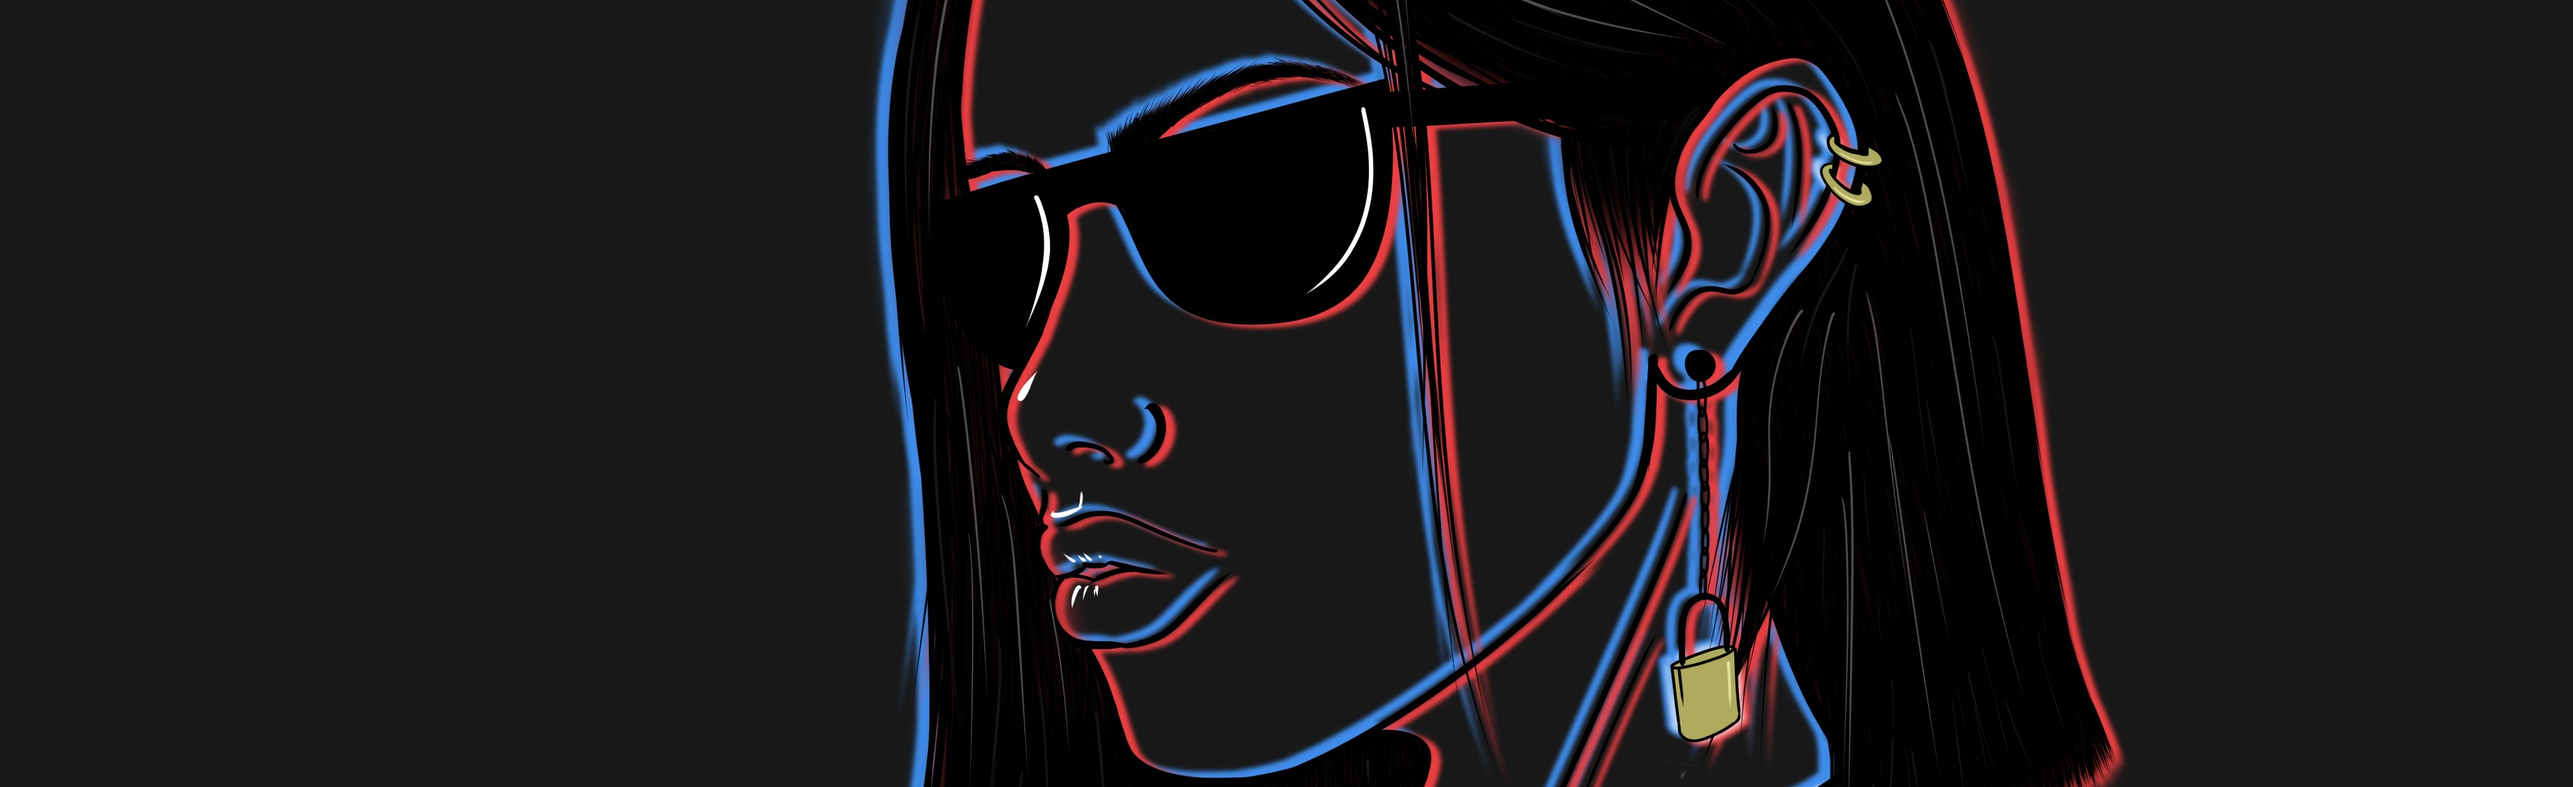
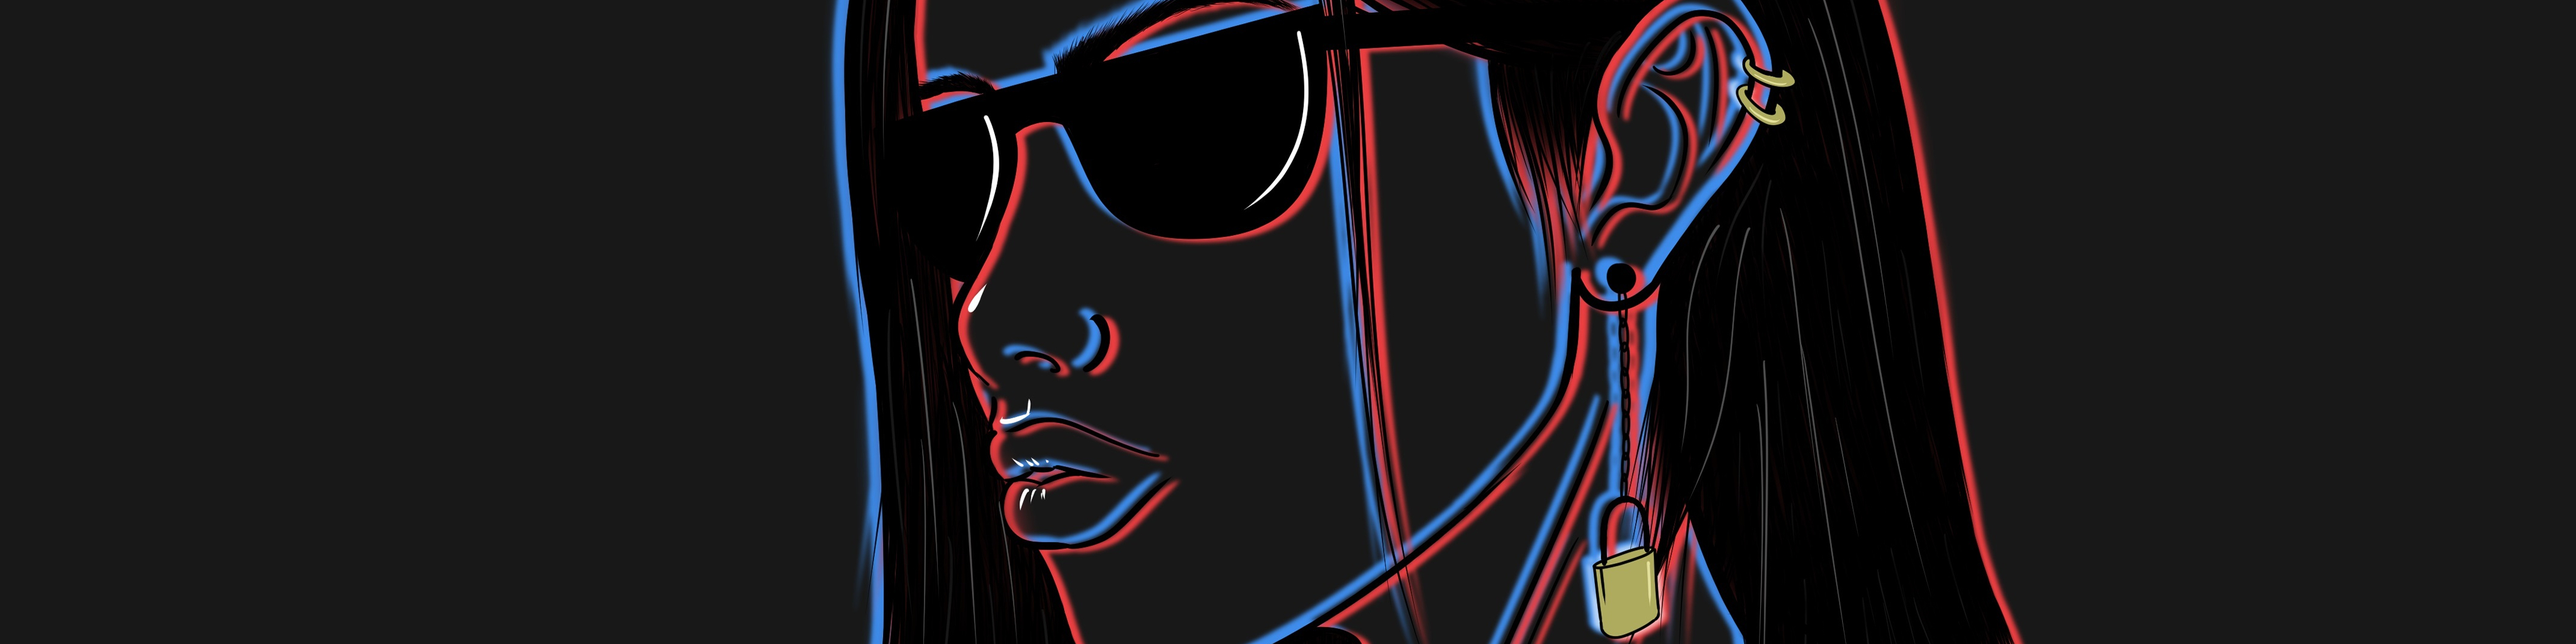
123 test

Changed region(s): [[0.3104, 0.0, 0.8069, 1.0], [0.7759, 0.8125, 0.838, 1.0]]

diff --git a/index.html b/index.html
@@ -13,7 +13,14 @@
 
 <body>
 
-    <div class="banner"></div>
+    <div class="banner">
+        <div class="banner2">
+            <div class="banner3">
+                <div class="banner4">
+                </div>
+            </div>
+        </div>
+    </div>
 
     <header class="header" id="myHeader">
 
@@ -42,40 +49,99 @@
         <h3>On Scroll Sticky Header</h3>
         <p>The header will stick to the top when you reach its scroll position.</p>
         <p>Scroll back up to remove the sticky effect.</p>
-        <p>Some text to enable scrolling.. Lorem ipsum dolor sit amet, illum definitiones no quo, maluisset concludaturque et eum, altera fabulas ut quo. Atqui causae gloriatur ius te, id agam omnis evertitur eum. Affert laboramus repudiandae nec et. Inciderint efficiantur his ad. Eum no molestiae voluptatibus.</p>
-        <p>Some text to enable scrolling.. Lorem ipsum dolor sit amet, illum definitiones no quo, maluisset concludaturque et eum, altera fabulas ut quo. Atqui causae gloriatur ius te, id agam omnis evertitur eum. Affert laboramus repudiandae nec et. Inciderint efficiantur his ad. Eum no molestiae voluptatibus.</p>
-        <p>Some text to enable scrolling.. Lorem ipsum dolor sit amet, illum definitiones no quo, maluisset concludaturque et eum, altera fabulas ut quo. Atqui causae gloriatur ius te, id agam omnis evertitur eum. Affert laboramus repudiandae nec et. Inciderint efficiantur his ad. Eum no molestiae voluptatibus.</p>
-        <p>Some text to enable scrolling.. Lorem ipsum dolor sit amet, illum definitiones no quo, maluisset concludaturque et eum, altera fabulas ut quo. Atqui causae gloriatur ius te, id agam omnis evertitur eum. Affert laboramus repudiandae nec et. Inciderint efficiantur his ad. Eum no molestiae voluptatibus.</p><p>Some text to enable scrolling.. Lorem ipsum dolor sit amet, illum definitiones no quo, maluisset concludaturque et eum, altera fabulas ut quo. Atqui causae gloriatur ius te, id agam omnis evertitur eum. Affert laboramus repudiandae nec et. Inciderint efficiantur his ad. Eum no molestiae voluptatibus.</p>  <p>Some text to enable scrolling.. Lorem ipsum dolor sit amet, illum definitiones no quo, maluisset concludaturque et eum, altera fabulas ut quo. Atqui causae gloriatur ius te, id agam omnis evertitur eum. Affert laboramus repudiandae nec et. Inciderint efficiantur his ad. Eum no molestiae voluptatibus.</p><p>Some text to enable scrolling.. Lorem ipsum dolor sit amet, illum definitiones no quo, maluisset concludaturque et eum, altera fabulas ut quo. Atqui causae gloriatur ius te, id agam omnis evertitur eum. Affert laboramus repudiandae nec et. Inciderint efficiantur his ad. Eum no molestiae voluptatibus.</p>  <p>Some text to enable scrolling.. Lorem ipsum dolor sit amet, illum definitiones no quo, maluisset concludaturque et eum, altera fabulas ut quo. Atqui causae gloriatur ius te, id agam omnis evertitur eum. Affert laboramus repudiandae nec et. Inciderint efficiantur his ad. Eum no molestiae voluptatibus.</p><p>Some text to enable scrolling.. Lorem ipsum dolor sit amet, illum definitiones no quo, maluisset concludaturque et eum, altera fabulas ut quo. Atqui causae gloriatur ius te, id agam omnis evertitur eum. Affert laboramus repudiandae nec et. Inciderint efficiantur his ad. Eum no molestiae voluptatibus.</p>  <p>Some text to enable scrolling.. Lorem ipsum dolor sit amet, illum definitiones no quo, maluisset concludaturque et eum, altera fabulas ut quo. Atqui causae gloriatur ius te, id agam omnis evertitur eum. Affert laboramus repudiandae nec et. Inciderint efficiantur his ad. Eum no molestiae voluptatibus.</p><p>Some text to enable scrolling.. Lorem ipsum dolor sit amet, illum definitiones no quo, maluisset concludaturque et eum, altera fabulas ut quo. Atqui causae gloriatur ius te, id agam omnis evertitur eum. Affert laboramus repudiandae nec et. Inciderint efficiantur his ad. Eum no molestiae voluptatibus.</p>
-        <p>Some text to enable scrolling.. Lorem ipsum dolor sit amet, illum definitiones no quo, maluisset concludaturque et eum, altera fabulas ut quo. Atqui causae gloriatur ius te, id agam omnis evertitur eum. Affert laboramus repudiandae nec et. Inciderint efficiantur his ad. Eum no molestiae voluptatibus.</p>
-        <p>Some text to enable scrolling.. Lorem ipsum dolor sit amet, illum definitiones no quo, maluisset concludaturque et eum, altera fabulas ut quo. Atqui causae gloriatur ius te, id agam omnis evertitur eum. Affert laboramus repudiandae nec et. Inciderint efficiantur his ad. Eum no molestiae voluptatibus.</p>
-        <p>Some text to enable scrolling.. Lorem ipsum dolor sit amet, illum definitiones no quo, maluisset concludaturque et eum, altera fabulas ut quo. Atqui causae gloriatur ius te, id agam omnis evertitur eum. Affert laboramus repudiandae nec et. Inciderint efficiantur his ad. Eum no molestiae voluptatibus.</p>
-        <p>Some text to enable scrolling.. Lorem ipsum dolor sit amet, illum definitiones no quo, maluisset concludaturque et eum, altera fabulas ut quo. Atqui causae gloriatur ius te, id agam omnis evertitur eum. Affert laboramus repudiandae nec et. Inciderint efficiantur his ad. Eum no molestiae voluptatibus.</p>
+        <p>Some text to enable scrolling.. Lorem ipsum dolor sit amet, illum definitiones no quo, maluisset
+            concludaturque et eum, altera fabulas ut quo. Atqui causae gloriatur ius te, id agam omnis evertitur eum.
+            Affert laboramus repudiandae nec et. Inciderint efficiantur his ad. Eum no molestiae voluptatibus.</p>
+        <p>Some text to enable scrolling.. Lorem ipsum dolor sit amet, illum definitiones no quo, maluisset
+            concludaturque et eum, altera fabulas ut quo. Atqui causae gloriatur ius te, id agam omnis evertitur eum.
+            Affert laboramus repudiandae nec et. Inciderint efficiantur his ad. Eum no molestiae voluptatibus.</p>
+        <p>Some text to enable scrolling.. Lorem ipsum dolor sit amet, illum definitiones no quo, maluisset
+            concludaturque et eum, altera fabulas ut quo. Atqui causae gloriatur ius te, id agam omnis evertitur eum.
+            Affert laboramus repudiandae nec et. Inciderint efficiantur his ad. Eum no molestiae voluptatibus.</p>
+        <p>Some text to enable scrolling.. Lorem ipsum dolor sit amet, illum definitiones no quo, maluisset
+            concludaturque et eum, altera fabulas ut quo. Atqui causae gloriatur ius te, id agam omnis evertitur eum.
+            Affert laboramus repudiandae nec et. Inciderint efficiantur his ad. Eum no molestiae voluptatibus.</p>
+        <p>Some text to enable scrolling.. Lorem ipsum dolor sit amet, illum definitiones no quo, maluisset
+            concludaturque et eum, altera fabulas ut quo. Atqui causae gloriatur ius te, id agam omnis evertitur eum.
+            Affert laboramus repudiandae nec et. Inciderint efficiantur his ad. Eum no molestiae voluptatibus.</p>
+        <p>Some text to enable scrolling.. Lorem ipsum dolor sit amet, illum definitiones no quo, maluisset
+            concludaturque et eum, altera fabulas ut quo. Atqui causae gloriatur ius te, id agam omnis evertitur eum.
+            Affert laboramus repudiandae nec et. Inciderint efficiantur his ad. Eum no molestiae voluptatibus.</p>
+        <p>Some text to enable scrolling.. Lorem ipsum dolor sit amet, illum definitiones no quo, maluisset
+            concludaturque et eum, altera fabulas ut quo. Atqui causae gloriatur ius te, id agam omnis evertitur eum.
+            Affert laboramus repudiandae nec et. Inciderint efficiantur his ad. Eum no molestiae voluptatibus.</p>
+        <p>Some text to enable scrolling.. Lorem ipsum dolor sit amet, illum definitiones no quo, maluisset
+            concludaturque et eum, altera fabulas ut quo. Atqui causae gloriatur ius te, id agam omnis evertitur eum.
+            Affert laboramus repudiandae nec et. Inciderint efficiantur his ad. Eum no molestiae voluptatibus.</p>
+        <p>Some text to enable scrolling.. Lorem ipsum dolor sit amet, illum definitiones no quo, maluisset
+            concludaturque et eum, altera fabulas ut quo. Atqui causae gloriatur ius te, id agam omnis evertitur eum.
+            Affert laboramus repudiandae nec et. Inciderint efficiantur his ad. Eum no molestiae voluptatibus.</p>
+        <p>Some text to enable scrolling.. Lorem ipsum dolor sit amet, illum definitiones no quo, maluisset
+            concludaturque et eum, altera fabulas ut quo. Atqui causae gloriatur ius te, id agam omnis evertitur eum.
+            Affert laboramus repudiandae nec et. Inciderint efficiantur his ad. Eum no molestiae voluptatibus.</p>
+        <p>Some text to enable scrolling.. Lorem ipsum dolor sit amet, illum definitiones no quo, maluisset
+            concludaturque et eum, altera fabulas ut quo. Atqui causae gloriatur ius te, id agam omnis evertitur eum.
+            Affert laboramus repudiandae nec et. Inciderint efficiantur his ad. Eum no molestiae voluptatibus.</p>
+        <p>Some text to enable scrolling.. Lorem ipsum dolor sit amet, illum definitiones no quo, maluisset
+            concludaturque et eum, altera fabulas ut quo. Atqui causae gloriatur ius te, id agam omnis evertitur eum.
+            Affert laboramus repudiandae nec et. Inciderint efficiantur his ad. Eum no molestiae voluptatibus.</p>
+        <p>Some text to enable scrolling.. Lorem ipsum dolor sit amet, illum definitiones no quo, maluisset
+            concludaturque et eum, altera fabulas ut quo. Atqui causae gloriatur ius te, id agam omnis evertitur eum.
+            Affert laboramus repudiandae nec et. Inciderint efficiantur his ad. Eum no molestiae voluptatibus.</p>
+        <p>Some text to enable scrolling.. Lorem ipsum dolor sit amet, illum definitiones no quo, maluisset
+            concludaturque et eum, altera fabulas ut quo. Atqui causae gloriatur ius te, id agam omnis evertitur eum.
+            Affert laboramus repudiandae nec et. Inciderint efficiantur his ad. Eum no molestiae voluptatibus.</p>
+        <p>Some text to enable scrolling.. Lorem ipsum dolor sit amet, illum definitiones no quo, maluisset
+            concludaturque et eum, altera fabulas ut quo. Atqui causae gloriatur ius te, id agam omnis evertitur eum.
+            Affert laboramus repudiandae nec et. Inciderint efficiantur his ad. Eum no molestiae voluptatibus.</p>
         <p>Scroll back up to remove the sticky effect.</p>
-        <p>Some text to enable scrolling.. Lorem ipsum dolor sit amet, illum definitiones no quo, maluisset concludaturque et eum, altera fabulas ut quo. Atqui causae gloriatur ius te, id agam omnis evertitur eum. Affert laboramus repudiandae nec et. Inciderint efficiantur his ad. Eum no molestiae voluptatibus.</p>
-        <p>Some text to enable scrolling.. Lorem ipsum dolor sit amet, illum definitiones no quo, maluisset concludaturque et eum, altera fabulas ut quo. Atqui causae gloriatur ius te, id agam omnis evertitur eum. Affert laboramus repudiandae nec et. Inciderint efficiantur his ad. Eum no molestiae voluptatibus.</p>
-        <p>Some text to enable scrolling.. Lorem ipsum dolor sit amet, illum definitiones no quo, maluisset concludaturque et eum, altera fabulas ut quo. Atqui causae gloriatur ius te, id agam omnis evertitur eum. Affert laboramus repudiandae nec et. Inciderint efficiantur his ad. Eum no molestiae voluptatibus.</p>
-        <p>Some text to enable scrolling.. Lorem ipsum dolor sit amet, illum definitiones no quo, maluisset concludaturque et eum, altera fabulas ut quo. Atqui causae gloriatur ius te, id agam omnis evertitur eum. Affert laboramus repudiandae nec et. Inciderint efficiantur his ad. Eum no molestiae voluptatibus.</p><p>Some text to enable scrolling.. Lorem ipsum dolor sit amet, illum definitiones no quo, maluisset concludaturque et eum, altera fabulas ut quo. Atqui causae gloriatur ius te, id agam omnis evertitur eum. Affert laboramus repudiandae nec et. Inciderint efficiantur his ad. Eum no molestiae voluptatibus.</p>  <p>Some text to enable scrolling.. Lorem ipsum dolor sit amet, illum definitiones no quo, maluisset concludaturque et eum, altera fabulas ut quo. Atqui causae gloriatur ius te, id agam omnis evertitur eum. Affert laboramus repudiandae nec et. Inciderint efficiantur his ad. Eum no molestiae voluptatibus.</p><p>Some text to enable scrolling.. Lorem ipsum dolor sit amet, illum definitiones no quo, maluisset concludaturque et eum, altera fabulas ut quo. Atqui causae gloriatur ius te, id agam omnis evertitur eum. Affert laboramus repudiandae nec et. Inciderint efficiantur his ad. Eum no molestiae voluptatibus.</p>  <p>Some text to enable scrolling.. Lorem ipsum dolor sit amet, illum definitiones no quo, maluisset concludaturque et eum, altera fabulas ut quo. Atqui causae gloriatur ius te, id agam omnis evertitur eum. Affert laboramus repudiandae nec et. Inciderint efficiantur his ad. Eum no molestiae voluptatibus.</p><p>Some text to enable scrolling.. Lorem ipsum dolor sit amet, illum definitiones no quo, maluisset concludaturque et eum, altera fabulas ut quo. Atqui causae gloriatur ius te, id agam omnis evertitur eum. Affert laboramus repudiandae nec et. Inciderint efficiantur his ad. Eum no molestiae voluptatibus.</p>  <p>Some text to enable scrolling.. Lorem ipsum dolor sit amet, illum definitiones no quo, maluisset concludaturque et eum, altera fabulas ut quo. Atqui causae gloriatur ius te, id agam omnis evertitur eum. Affert laboramus repudiandae nec et. Inciderint efficiantur his ad. Eum no molestiae voluptatibus.</p><p>Some text to enable scrolling.. Lorem ipsum dolor sit amet, illum definitiones no quo, maluisset concludaturque et eum, altera fabulas ut quo. Atqui causae gloriatur ius te, id agam omnis evertitur eum. Affert laboramus repudiandae nec et. Inciderint efficiantur his ad. Eum no molestiae voluptatibus.</p>
-        <p>Some text to enable scrolling.. Lorem ipsum dolor sit amet, illum definitiones no quo, maluisset concludaturque et eum, altera fabulas ut quo. Atqui causae gloriatur ius te, id agam omnis evertitur eum. Affert laboramus repudiandae nec et. Inciderint efficiantur his ad. Eum no molestiae voluptatibus.</p>
-        <p>Some text to enable scrolling.. Lorem ipsum dolor sit amet, illum definitiones no quo, maluisset concludaturque et eum, altera fabulas ut quo. Atqui causae gloriatur ius te, id agam omnis evertitur eum. Affert laboramus repudiandae nec et. Inciderint efficiantur his ad. Eum no molestiae voluptatibus.</p>
-        <p>Some text to enable scrolling.. Lorem ipsum dolor sit amet, illum definitiones no quo, maluisset concludaturque et eum, altera fabulas ut quo. Atqui causae gloriatur ius te, id agam omnis evertitur eum. Affert laboramus repudiandae nec et. Inciderint efficiantur his ad. Eum no molestiae voluptatibus.</p>
-        <p>Some text to enable scrolling.. Lorem ipsum dolor sit amet, illum definitiones no quo, maluisset concludaturque et eum, altera fabulas ut quo. Atqui causae gloriatur ius te, id agam omnis evertitur eum. Affert laboramus repudiandae nec et. Inciderint efficiantur his ad. Eum no molestiae voluptatibus.</p>
+        <p>Some text to enable scrolling.. Lorem ipsum dolor sit amet, illum definitiones no quo, maluisset
+            concludaturque et eum, altera fabulas ut quo. Atqui causae gloriatur ius te, id agam omnis evertitur eum.
+            Affert laboramus repudiandae nec et. Inciderint efficiantur his ad. Eum no molestiae voluptatibus.</p>
+        <p>Some text to enable scrolling.. Lorem ipsum dolor sit amet, illum definitiones no quo, maluisset
+            concludaturque et eum, altera fabulas ut quo. Atqui causae gloriatur ius te, id agam omnis evertitur eum.
+            Affert laboramus repudiandae nec et. Inciderint efficiantur his ad. Eum no molestiae voluptatibus.</p>
+        <p>Some text to enable scrolling.. Lorem ipsum dolor sit amet, illum definitiones no quo, maluisset
+            concludaturque et eum, altera fabulas ut quo. Atqui causae gloriatur ius te, id agam omnis evertitur eum.
+            Affert laboramus repudiandae nec et. Inciderint efficiantur his ad. Eum no molestiae voluptatibus.</p>
+        <p>Some text to enable scrolling.. Lorem ipsum dolor sit amet, illum definitiones no quo, maluisset
+            concludaturque et eum, altera fabulas ut quo. Atqui causae gloriatur ius te, id agam omnis evertitur eum.
+            Affert laboramus repudiandae nec et. Inciderint efficiantur his ad. Eum no molestiae voluptatibus.</p>
+        <p>Some text to enable scrolling.. Lorem ipsum dolor sit amet, illum definitiones no quo, maluisset
+            concludaturque et eum, altera fabulas ut quo. Atqui causae gloriatur ius te, id agam omnis evertitur eum.
+            Affert laboramus repudiandae nec et. Inciderint efficiantur his ad. Eum no molestiae voluptatibus.</p>
+        <p>Some text to enable scrolling.. Lorem ipsum dolor sit amet, illum definitiones no quo, maluisset
+            concludaturque et eum, altera fabulas ut quo. Atqui causae gloriatur ius te, id agam omnis evertitur eum.
+            Affert laboramus repudiandae nec et. Inciderint efficiantur his ad. Eum no molestiae voluptatibus.</p>
+        <p>Some text to enable scrolling.. Lorem ipsum dolor sit amet, illum definitiones no quo, maluisset
+            concludaturque et eum, altera fabulas ut quo. Atqui causae gloriatur ius te, id agam omnis evertitur eum.
+            Affert laboramus repudiandae nec et. Inciderint efficiantur his ad. Eum no molestiae voluptatibus.</p>
+        <p>Some text to enable scrolling.. Lorem ipsum dolor sit amet, illum definitiones no quo, maluisset
+            concludaturque et eum, altera fabulas ut quo. Atqui causae gloriatur ius te, id agam omnis evertitur eum.
+            Affert laboramus repudiandae nec et. Inciderint efficiantur his ad. Eum no molestiae voluptatibus.</p>
+        <p>Some text to enable scrolling.. Lorem ipsum dolor sit amet, illum definitiones no quo, maluisset
+            concludaturque et eum, altera fabulas ut quo. Atqui causae gloriatur ius te, id agam omnis evertitur eum.
+            Affert laboramus repudiandae nec et. Inciderint efficiantur his ad. Eum no molestiae voluptatibus.</p>
+        <p>Some text to enable scrolling.. Lorem ipsum dolor sit amet, illum definitiones no quo, maluisset
+            concludaturque et eum, altera fabulas ut quo. Atqui causae gloriatur ius te, id agam omnis evertitur eum.
+            Affert laboramus repudiandae nec et. Inciderint efficiantur his ad. Eum no molestiae voluptatibus.</p>
+        <p>Some text to enable scrolling.. Lorem ipsum dolor sit amet, illum definitiones no quo, maluisset
+            concludaturque et eum, altera fabulas ut quo. Atqui causae gloriatur ius te, id agam omnis evertitur eum.
+            Affert laboramus repudiandae nec et. Inciderint efficiantur his ad. Eum no molestiae voluptatibus.</p>
+        <p>Some text to enable scrolling.. Lorem ipsum dolor sit amet, illum definitiones no quo, maluisset
+            concludaturque et eum, altera fabulas ut quo. Atqui causae gloriatur ius te, id agam omnis evertitur eum.
+            Affert laboramus repudiandae nec et. Inciderint efficiantur his ad. Eum no molestiae voluptatibus.</p>
+        <p>Some text to enable scrolling.. Lorem ipsum dolor sit amet, illum definitiones no quo, maluisset
+            concludaturque et eum, altera fabulas ut quo. Atqui causae gloriatur ius te, id agam omnis evertitur eum.
+            Affert laboramus repudiandae nec et. Inciderint efficiantur his ad. Eum no molestiae voluptatibus.</p>
+        <p>Some text to enable scrolling.. Lorem ipsum dolor sit amet, illum definitiones no quo, maluisset
+            concludaturque et eum, altera fabulas ut quo. Atqui causae gloriatur ius te, id agam omnis evertitur eum.
+            Affert laboramus repudiandae nec et. Inciderint efficiantur his ad. Eum no molestiae voluptatibus.</p>
+        <p>Some text to enable scrolling.. Lorem ipsum dolor sit amet, illum definitiones no quo, maluisset
+            concludaturque et eum, altera fabulas ut quo. Atqui causae gloriatur ius te, id agam omnis evertitur eum.
+            Affert laboramus repudiandae nec et. Inciderint efficiantur his ad. Eum no molestiae voluptatibus.</p>
 
     </section>
-
-    <script>
-        window.onscroll = function() {myFunction()};
-        
-        var header = document.getElementById("myHeader");
-        var sticky = header.offsetTop;
-        
-        function myFunction() {
-          if (window.pageYOffset > sticky) {
-            header.classList.add("sticky");
-          } else {
-            header.classList.remove("sticky");
-          }
-        }
-        </script>
 
 </body>
 

diff --git a/style.css b/style.css
@@ -4,23 +4,59 @@
 }
 
 body{
-    background-color: grey;
+    background-color: rgb(31, 31, 31);
+    min-height: 200vh;
   }
   
   .banner {
-    background-image: url(assets/img/banner-image.jpg);
+
+    background-image: url(assets/img/black.png);
     background-size: cover;
-    background-position: center center;
-    height: 600px;
+    background-repeat: no-repeat;
+    height: 400px;
     width: 100%;
-    background-attachment: fixed, fixed, fixed; 
+    background-attachment: fixed;
+  }
+
+  .banner2 {
+    opacity: 0;
+    background-image: url(assets/img/blue.png);
+    background-size: cover;
+    background-repeat: no-repeat;
+    height: 400px;
+    width: 100%;
+    background-attachment: fixed;
+  }
+
+  .banner3 {
+    background-image: url(assets/img/red.png);
+    background-size: cover;
+    background-repeat: no-repeat;
+    height: 400px;
+    width: 100%;
+    background-attachment: fixed;
+  }
+
+  .banner4 {
+    background-image: url(assets/img/black.png);
+    background-size: cover;
+    background-repeat: no-repeat;
+    height: 400px;
+    width: 100%;
+    background-attachment: fixed;
+  }
+
+  .banner2:hover{
+    transition: 1s ease;
+    opacity: 1;
   }
 
   header {
     width: 100%;
     height: 100px;
     background-color: green;
-
+    position: sticky;
+    top: 0;
   }
 
   nav {
@@ -30,7 +66,6 @@ body{
   .navbar a{
     text-decoration: none;
     font-size: 17px;
-    font-weight: 500;
     letter-spacing: 4px;
     color: white;
 
@@ -50,13 +85,7 @@ body{
     color: white;
   } 
 
-  .sticky {
-    position: fixed;
-    top: 0;
-    width: 100%;
-
-  }
-  
-  .sticky + .section {
-    padding-top: 102px;
+  .section {
+    padding: 16px;
+    text-align: center;
   }
